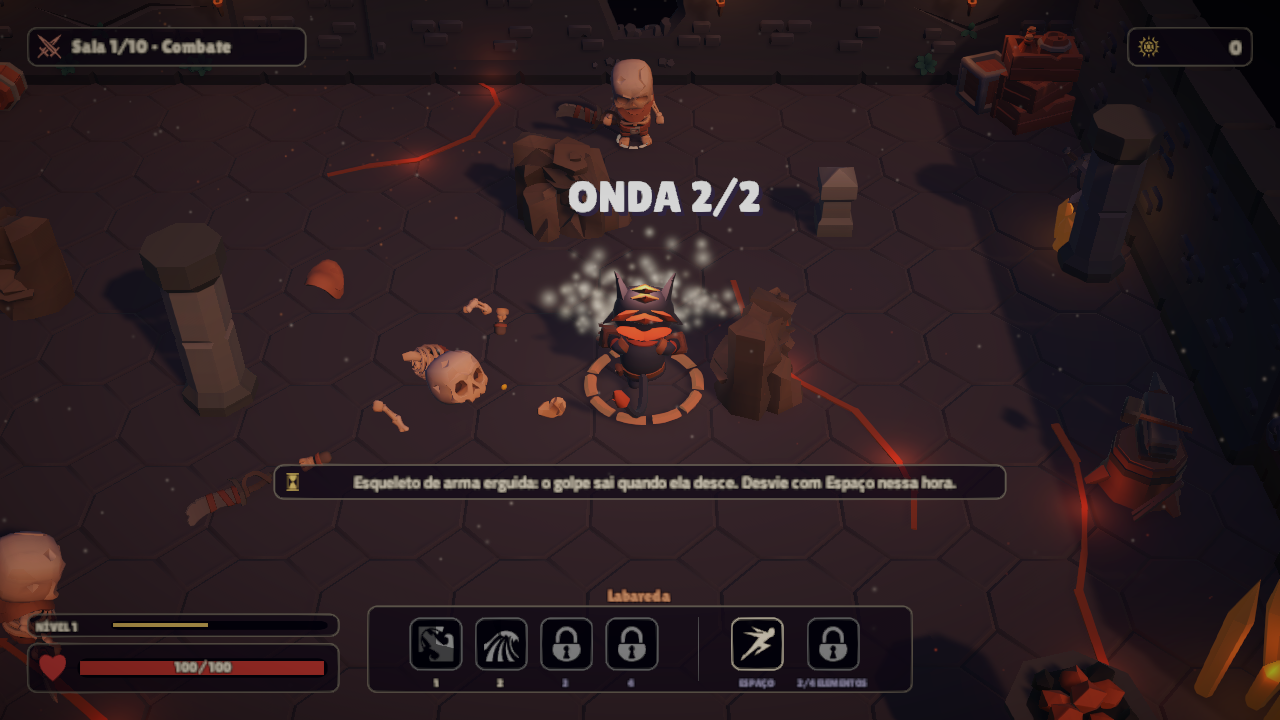
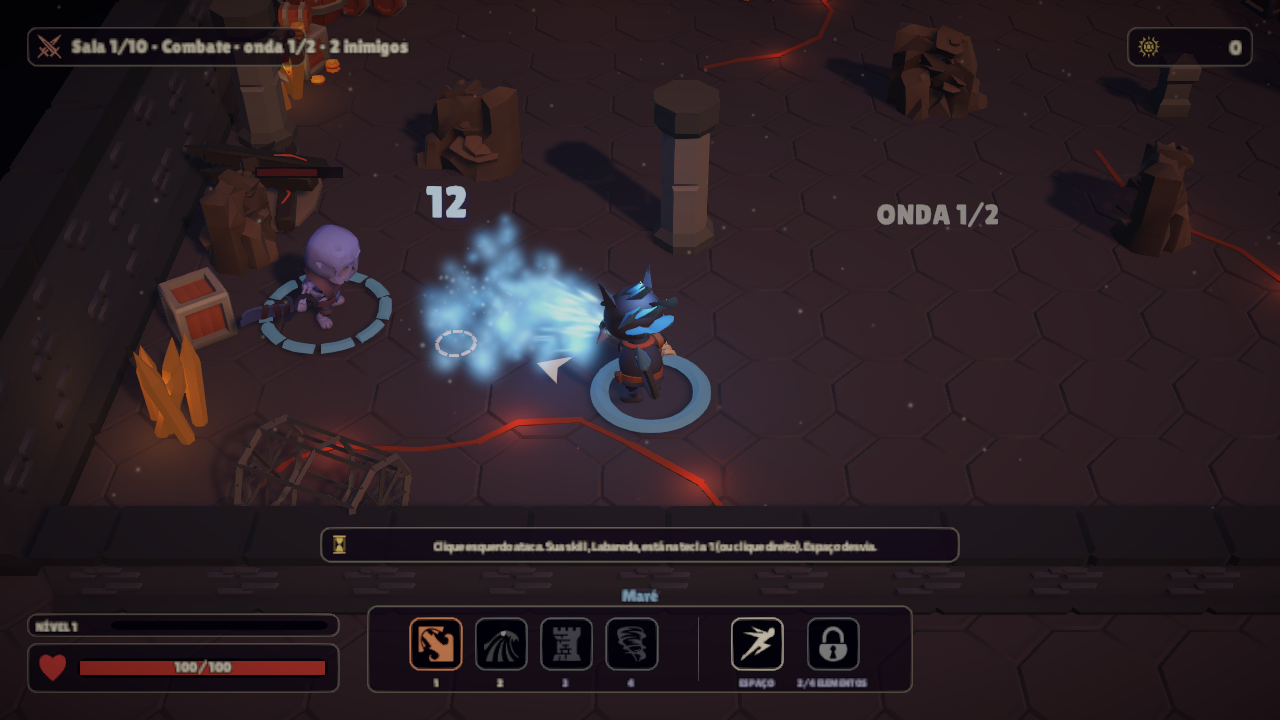
Prints da página do itch refeitos com o jogo de agora (placas legíveis, Treino e inventário novos) e mais dois: Santuário e Mestre

diff --git a/docs/itch.md b/docs/itch.md
@@ -98,4 +98,4 @@ Vídeo: `docs/img/run_noite.mp4` (run curta gravada pelo teste, visual de 16/11)
 
 ## Prints para a página (18/11)
 
-Em `docs/itch_prints/`, 1280 x 720: título, onda de inimigos, sala limpa, loja e Descanso. Gerados por `AspectShots.Title_In_Many_Aspects`, `Itch_Action_Shots` e `Room_Tour` (testes Explicit). Para subir: Edit game → Screenshots.
+Em `docs/itch_prints/`, 1280 x 720 (refeitos em 18/11 de madrugada, com as placas e o Treino novos): título, onda de inimigos, sala limpa, loja, Descanso, Santuário e Mestre. Gerados por `AspectShots.Title_In_Many_Aspects`, `Itch_Action_Shots` e `Room_Tour` (testes Explicit). Para subir: Edit game → Screenshots.
